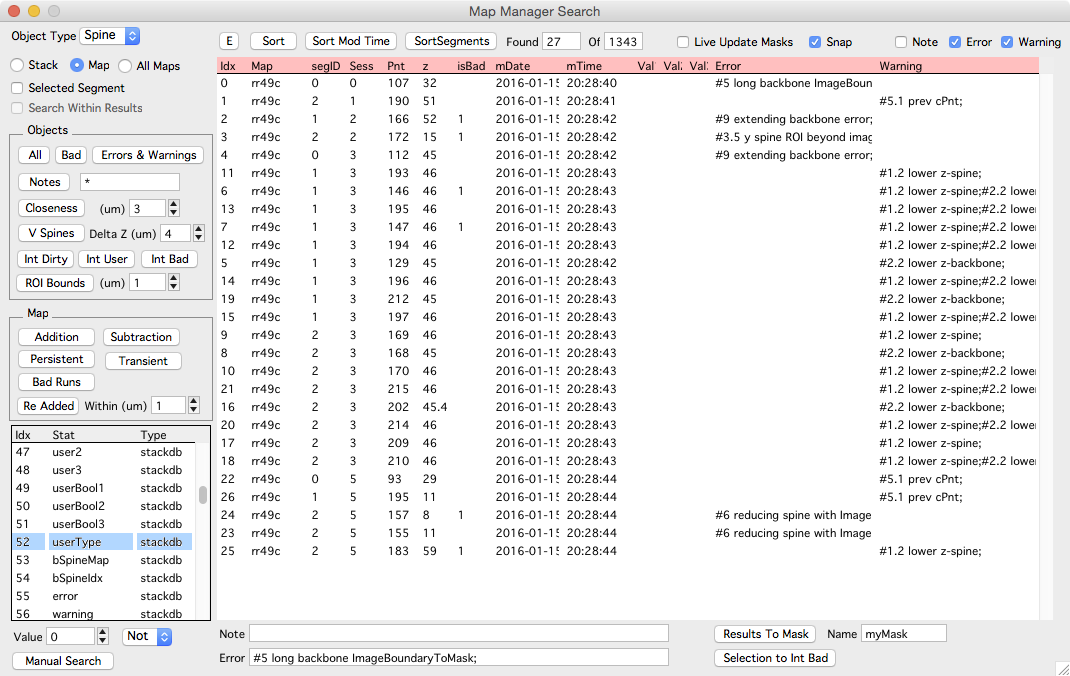
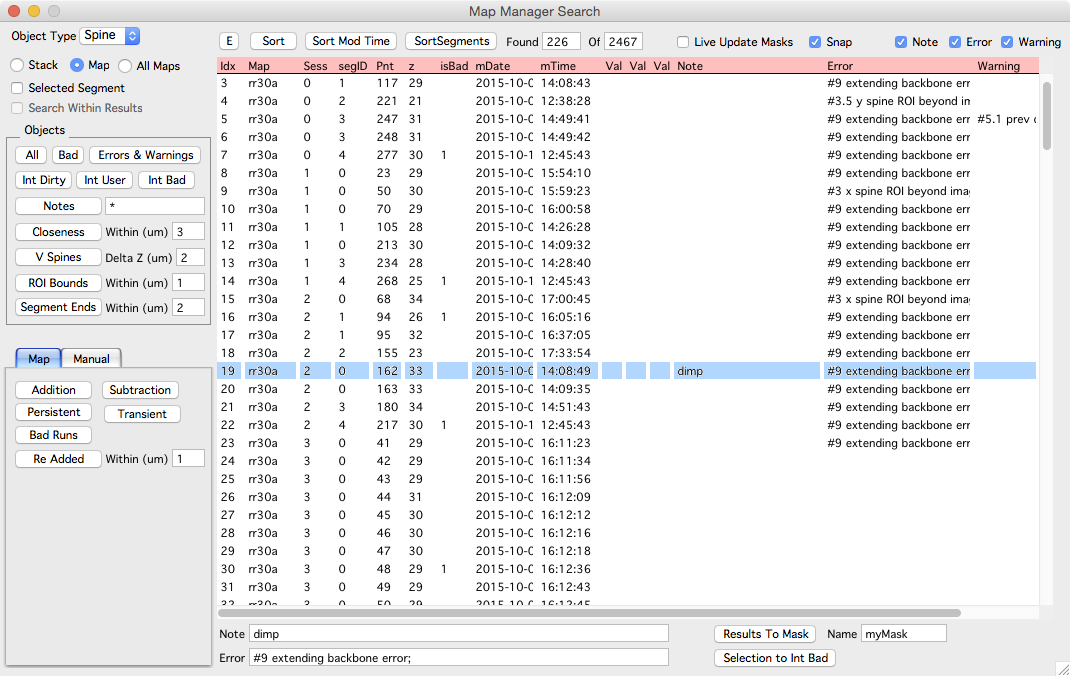
xxx

diff --git a/_site/search-panel/index.html b/_site/search-panel/index.html
@@ -198,36 +198,37 @@
 <h4 id="objects">Objects</h4>
 
 <ul>
-<li>All. All objects of &#39;Object Type&#39;</li>
-<li>Bad. Objects marked bad</li>
-<li>Errors and Warning. Objects with <a href="/mapmanager/intensity/">Intensity Analysis</a>&#39; errors and warnings.</li>
-<li>Notes.</li>
-<li>Closeness. Returns object that are within specified distance (um) of each other.</li>
-<li>V Spines. Return spines where the z-plane of the spine head is farther (in z) from the connected backbone/dendrite line.</li>
-<li>Int Dirty. Returns spines with dirty intensity analysis. Spines with dirty intensity analysis can be analyzed in the main <a href="/mapmanager/main-panel/">map manager panel</a>, intensity tab.</li>
-<li>Int User.</li>
-<li>Int Bad.</li>
-<li>ROI Bounds. Return spines with background ROI within specified distance (um) from edges of image. This is useful if stack alignment has been run causing images to be shifted/rotated resulting in undefined regions on the edge of the image.</li>
+<li><strong>All.</strong> All objects of &#39;Object Type&#39;</li>
+<li><strong>Bad.</strong> Objects marked bad</li>
+<li><strong>Errors and Warning.</strong> Objects with <a href="/mapmanager/intensity/">Intensity Analysis</a> errors and warnings. USe the Error and Warning checkboxes in the upper right of the panel to toggle these columns on and off.</li>
+<li><strong>Int Dirty.</strong> Returns spines with dirty intensity analysis. Spines with dirty intensity analysis can be analyzed in the main <a href="/mapmanager/main-panel/">map manager panel</a>, intensity tab.</li>
+<li><strong>Int User.</strong></li>
+<li><strong>Int Bad.</strong></li>
+<li><strong>Notes.</strong> Objects with notes matching the search criteria. Use &#39;*&#39; as a wildcard. Use &#39;*&#39; to return all objects with notes, use &#39;thistext*&#39; to search for notes starting with &#39;thistext&#39;.</li>
+<li><strong>Closeness.</strong> Returns object that are within specified distance (um) of each other.</li>
+<li><strong>V Spines.</strong> Return spines where the z-plane of the spine head is farther (in z) from the connected backbone/dendrite line.</li>
+<li><strong>ROI Bounds.</strong> Return spines with background ROI within specified distance (um) from edges of image. This is useful if stack alignment has been run causing images to be shifted/rotated resulting in undefined regions on the edge of the image.</li>
+<li><strong>Segment Ends.</strong> Return objects within specified distance (um) of the end of their segment/backbone line.</li>
 </ul>
 
-<h4 id="map">Map</h4>
+<h4 id="map-tab">Map Tab</h4>
 
 <ul>
-<li>Addition.</li>
-<li>Subtraction.</li>
-<li>Persistent</li>
-<li>Transient</li>
-<li>Bad Runs. Return a list of objects that have a mixture of good and bad within their respective run. This is used for debugging and will be removed.</li>
-<li>Re Added. Return a list of added spines that have a previous subtraction (on a previous timepoint) that is within specified distance along the backbone/dendrite.</li>
+<li><strong>Addition.</strong></li>
+<li><strong>Subtraction.</strong></li>
+<li><strong>Persistent.</strong></li>
+<li><strong>Transient.</strong></li>
+<li><strong>Bad Runs.</strong> Return a list of objects that have a mixture of good and bad within their respective run. This is used for debugging and will be removed.</li>
+<li><strong>Re Added.</strong> Return a list of added spines that have a previous subtraction (on a previous timepoint) that is within specified distance along the backbone/dendrite.</li>
 </ul>
 
-<h4 id="manual-search">Manual Search</h4>
+<h4 id="manual-tab">Manual Tab</h4>
 
 <p>Return a list of objects matching a user specified criterion.</p>
 
 <p>Do this by selecting a statistic in the list, specify a value, and an operator (&gt;, &gt;=, &lt;, &lt;=, =, Not).</p>
 
-<p>For example, to generate a search of all long spines, select sLen2d/IntCh1, enter a spine length like 4 um, select &#39;&gt;&#39; operator and press &#39;Manual Search&#39; button.</p>
+<p>For example, to generate a search of all long spines, select sLen2d/IntCh1, enter a spine length (um) like 4, select &#39;&gt;&#39; operator and press the &#39;Manual Search&#39; button.</p>
 
 
 <div class="post-tags">

diff --git a/_posts/2015-04-20-search-panel.md b/_posts/2015-04-20-search-panel.md
@@ -30,32 +30,33 @@ First select the type of object with 'Object Type' popup. Start by selecting 'Sp
 
 ####Objects
 
-  - All. All objects of 'Object Type'
-  - Bad. Objects marked bad
-  - Errors and Warning. Objects with [Intensity Analysis][5]' errors and warnings.
-  - Notes.
-  - Closeness. Returns object that are within specified distance (um) of each other.
-  - V Spines. Return spines where the z-plane of the spine head is farther (in z) from the connected backbone/dendrite line.
-  - Int Dirty. Returns spines with dirty intensity analysis. Spines with dirty intensity analysis can be analyzed in the main [map manager panel][6], intensity tab.
-  - Int User.
-  - Int Bad.
-  - ROI Bounds. Return spines with background ROI within specified distance (um) from edges of image. This is useful if stack alignment has been run causing images to be shifted/rotated resulting in undefined regions on the edge of the image.
-
-####Map
-
-  - Addition.
-  - Subtraction.
-  - Persistent
-  - Transient
-  - Bad Runs. Return a list of objects that have a mixture of good and bad within their respective run. This is used for debugging and will be removed.
-  - Re Added. Return a list of added spines that have a previous subtraction (on a previous timepoint) that is within specified distance along the backbone/dendrite.
+  - **All.** All objects of 'Object Type'
+  - **Bad.** Objects marked bad
+  - **Errors and Warning.** Objects with [Intensity Analysis][5] errors and warnings. USe the Error and Warning checkboxes in the upper right of the panel to toggle these columns on and off.
+  - **Int Dirty.** Returns spines with dirty intensity analysis. Spines with dirty intensity analysis can be analyzed in the main [map manager panel][6], intensity tab.
+  - **Int User.**
+  - **Int Bad.**
+  - **Notes.** Objects with notes matching the search criteria. Use '\*' as a wildcard. Use '\*' to return all objects with notes, use 'thistext\*' to search for notes starting with 'thistext'.
+  - **Closeness.** Returns object that are within specified distance (um) of each other.
+  - **V Spines.** Return spines where the z-plane of the spine head is farther (in z) from the connected backbone/dendrite line.
+  - **ROI Bounds.** Return spines with background ROI within specified distance (um) from edges of image. This is useful if stack alignment has been run causing images to be shifted/rotated resulting in undefined regions on the edge of the image.
+  - **Segment Ends.** Return objects within specified distance (um) of the end of their segment/backbone line.
   
-####Manual Search
+####Map Tab
+
+  - **Addition.**
+  - **Subtraction.**
+  - **Persistent.**
+  - **Transient.**
+  - **Bad Runs.** Return a list of objects that have a mixture of good and bad within their respective run. This is used for debugging and will be removed.
+  - **Re Added.** Return a list of added spines that have a previous subtraction (on a previous timepoint) that is within specified distance along the backbone/dendrite.
+  
+####Manual Tab
   Return a list of objects matching a user specified criterion.
   
   Do this by selecting a statistic in the list, specify a value, and an operator (>, >=, <, <=, =, Not).
   
-  For example, to generate a search of all long spines, select sLen2d/IntCh1, enter a spine length like 4 um, select '>' operator and press 'Manual Search' button.
+  For example, to generate a search of all long spines, select sLen2d/IntCh1, enter a spine length (um) like 4, select '>' operator and press the 'Manual Search' button.
      
 [1]: /mapmanager/stack-browser/
 [2]: /mapmanager/map-plot/
